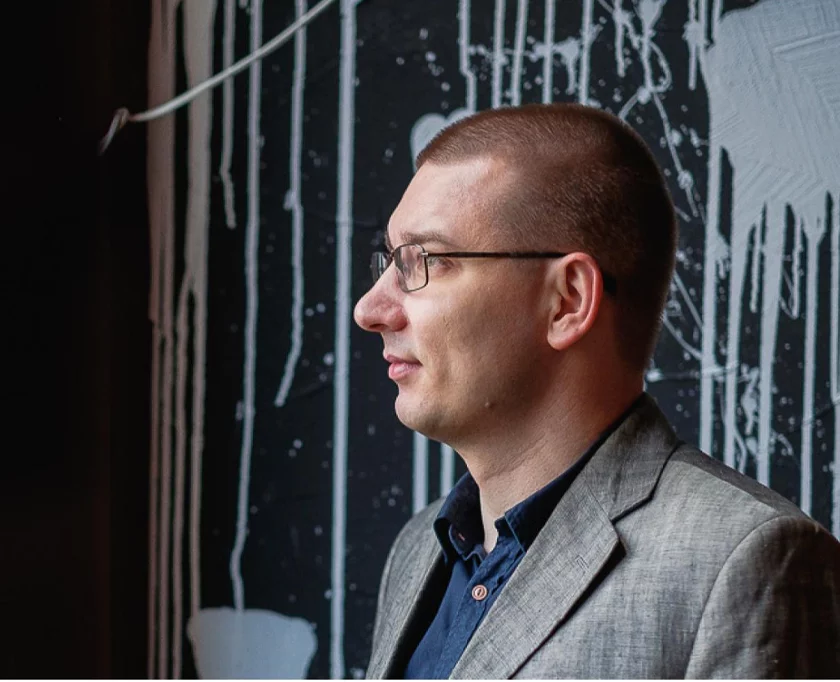
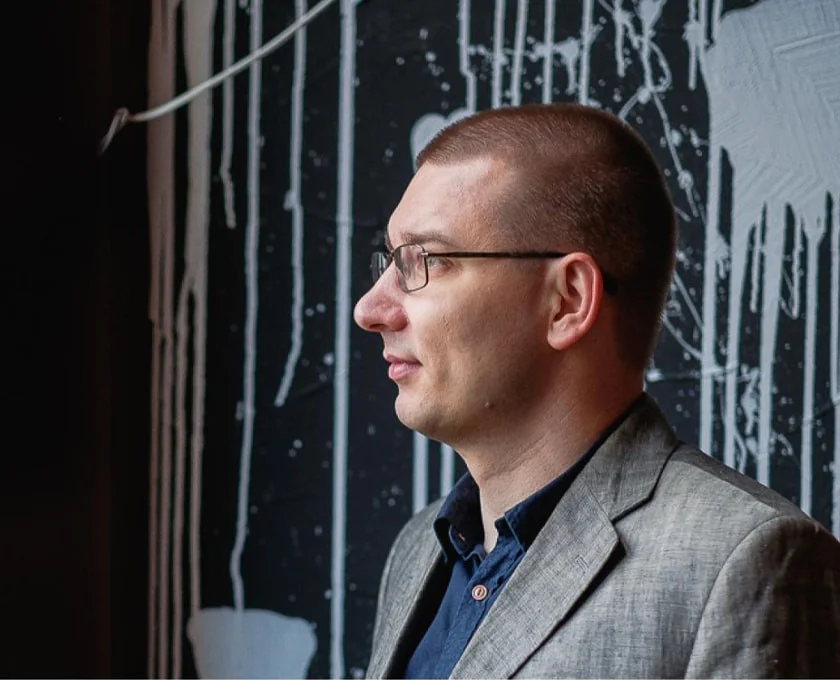
2

diff --git a/_layouts/home.html b/_layouts/home.html
@@ -12,11 +12,7 @@ layout: compress
 <meta http-equiv='X-UA-Compatible' content='IE=edge'>
 
 
-
-
 	{% include meta.html %}
-<link rel="preload" as="image" type="image/jpg" href="https://res.cloudinary.com/bartoshevich/image/upload/q_auto,f_auto/v1546985586/me2-840.jpg">
-<link rel="preload" as="image" type="image/png" href="https://res.cloudinary.com/bartoshevich/image/upload/q_auto,f_auto/v1546985602/me1.png">
 
 
 
@@ -89,13 +85,40 @@ layout: compress
 											</div>
 				      </div>
 
-							<figure class="  figure1">
+
+					 
 
 
-	<img class="figure-img"  src="https://res.cloudinary.com/bartoshevich/image/upload/q_auto,f_auto/v1546985586/me2-840.jpg" alt="Дмитрий Бартошевич фото"/>
+						
 
 
-			       </figure>
+									<picture class="  figure1">
+
+											<source
+											media="(max-width: 570px)"
+											srcset="/images/me2_s_520.webp 1x,
+													/images/me2_s_700.webp 2x"
+															type="image/webp">
+										<source
+											media="(max-width: 570px)"
+											srcset="/images/me2_s_520.jpg 1x,
+											/images/me2_s_700.jpg 2x">
+										<source
+											srcset="/images/me2-620.webp 1x,
+													/images/me2-840.webp 2x"
+											type="image/webp">
+										<img
+											src="/images/me2-640.jpg" alt="Дмитрий Бартошевич фото"
+											srcset="/images/me2-640.jpg 1x,
+											/images/me2-840.jpg 2x">
+									
+									
+									</picture>	
+
+
+
+
+
 
 							<div class="flex-wrapper cytata">
 								 <div class="flex-wrapper-item ">
@@ -103,9 +126,33 @@ layout: compress
 						  	</div>
 					   </div>
 
-							 <figure class="figure2">
-					 				 <img class="figure-img" src="https://res.cloudinary.com/bartoshevich/image/upload/q_auto,f_auto/v1546985602/me1.png"  alt="Дмитрий Бартошевич - конференция 1С-Битрикс">
-		  	 				</figure>
+					<!--		 <figure class="figure2"> -->
+
+									<picture class="figure2">
+
+											<source
+											media="(max-width: 570px)"
+											srcset="/images/me1_s_520.webp 1x,
+													/images/me1_s_700.webp 2x"
+															type="image/webp">
+										<source
+											media="(max-width: 570px)"
+											srcset="/images/me1_s_520.jpg 1x,
+											/images/me1_s_700.jpg 2x">
+										<source
+											srcset="/images/me1-455.webp 1x,
+													/images/me1-670.webp 2x"
+											type="image/webp">
+										<img
+											src="/images/me1-455.jpg" alt="Дмитрий Бартошевич - конференция 1С-Битрикс"
+											srcset="/images/me1-455.jpg 1x,
+											/images/me1-670.jpg 2x">
+									
+									
+									</picture>	
+
+					
+		  	 			<!--	</figure>  -->
 
 				 				<div class="flex-wrapper clients">
 				 						<div class="flex-wrapper-item">

diff --git a/_layouts/contact.html b/_layouts/contact.html
@@ -12,7 +12,6 @@ layout: compress
 <meta http-equiv='X-UA-Compatible' content='IE=edge'>
 
 	{% include meta.html %}
-<link rel="preload" as="image" type="image/jpg" href="https://res.cloudinary.com/bartoshevich/image/upload/w_800/q_auto,f_auto/v1549192113/conf_newreality.jpg">
 	
 
 	
@@ -66,10 +65,34 @@ layout: compress
 			<div class="block">
 				<div class="contact-block">
 
-							<img class="img-shadow" src="https://res.cloudinary.com/bartoshevich/image/upload/q_auto,f_auto/v1549192113/conf_newreality.jpg"
-							srcset="https://res.cloudinary.com/bartoshevich/image/upload/w_800/q_auto,f_auto/v1549192113/conf_newreality.jpg 1x,
-							https://res.cloudinary.com/bartoshevich/image/upload/q_auto,f_auto/v1549192113/conf_newreality.jpg 2x"
-							alt="Дмитрий Бартошевич на конференции" width="800" height="534" />
+						<picture>
+
+								<source
+								media="(max-width: 437px)"
+								srcset="/images/conf_newreality_385.webp 1x,
+										/images/conf_newreality_785.webp 2x"
+												type="image/webp">
+							<source
+								media="(max-width: 437px)"
+								srcset="/images/conf_newreality_385.jpg 1x,
+								/images/conf_newreality_785.jpg 2x">
+							<source
+								srcset="/images/conf_newreality_785.webp 1x,
+										/images/conf_newreality_1000.webp 2x"
+								type="image/webp">
+							<img
+								src="/images/conf_newreality_785.jpg" alt="Дмитрий Бартошевич на конференции" width="785" height="590" 
+								srcset="/images/conf_newreality_785.jpg 1x,
+								/images/conf_newreality_1000.jpg 2x">
+						
+						
+						</picture>	
+
+
+
+
+
+
 
 							<div class="contact-data">
 									<ul>

diff --git a/_includes/home-style.scss b/_includes/home-style.scss
@@ -102,16 +102,20 @@ main {
    justify-content: center;
 }
 
+picture.figure1,
+picture.figure2,
 .cytata,
 .blog,
 .email,
 .clients,
 .keypoint {
-	margin-top: 1em;
+	margin-top: 5px;
 }
 
 
-.figure-img {
+.figure-img,
+picture,
+img   {
   display: block;
   width: 100%;
 //  height: 100%;
@@ -159,7 +163,6 @@ display: flex;
 }
 
 
-
 .flex-wrapper-item {
 margin: auto;
 text-align: center;
@@ -179,7 +182,7 @@ text-align: center;
 
 .reference {
 	font-size:.9em;
-	color: #777;
+	color: #696969;
 }
 
 .cytata {
@@ -204,14 +207,15 @@ text-align: center;
 	background: $focus;
 	min-height: 60px;
 	padding: 2em 0;
-	font-weight: 500;
+	font-weight: 600;
 
 }
 
 .email {
-	background: #f4efd1;
+	background: #F7F3DE;
 	min-height: 60px;
 	padding: 2em 0;
+	font-weight: 600;
 }
 
 .clients {
@@ -250,7 +254,9 @@ text-align: center;
 
                 }
 
-                .figure-img {
+								.figure-img,
+								picture,
+								img  {
                    height: 100%;
                 }
 
@@ -267,7 +273,7 @@ text-align: center;
                           }
 
 
-                          .figure1 {
+                          picture.figure1 {
                         		-ms-grid-column: 3;
                         		-ms-grid-column-span: 3;
                         		grid-column: 3 / 6;
@@ -276,7 +282,7 @@ text-align: center;
                         		margin: inherit;
                           }
 
-                          .figure2 {
+													picture.figure2 {
                         		-ms-grid-column: 2;
                         		-ms-grid-column-span: 2;
                         		grid-column: 2 / 4;

diff --git a/_includes/contact.scss b/_includes/contact.scss
@@ -49,7 +49,8 @@ h1  {
      width: 100%;
      height: 100%;
 
-        img {
+        img,
+        picture {
           -ms-grid-column: 1;
           -ms-grid-column-span: 2;
           grid-column: 1 / 3;
